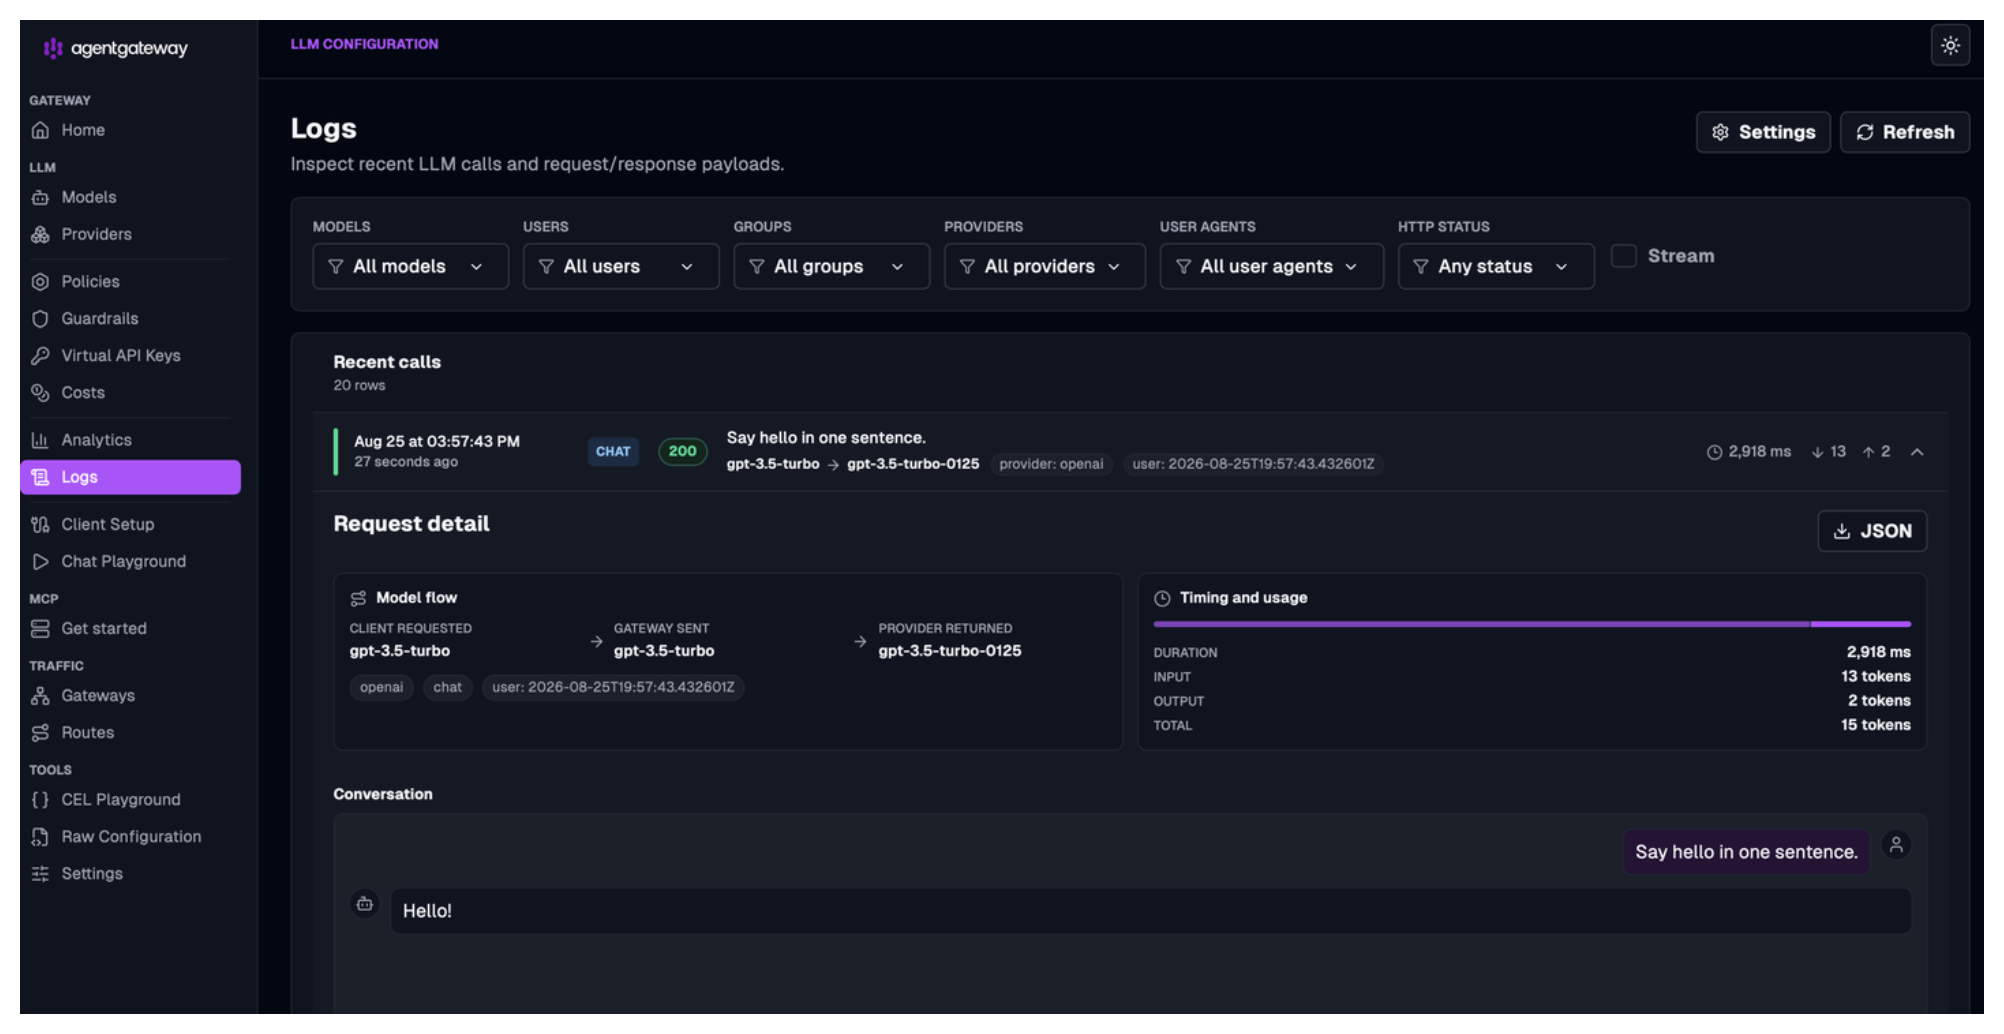
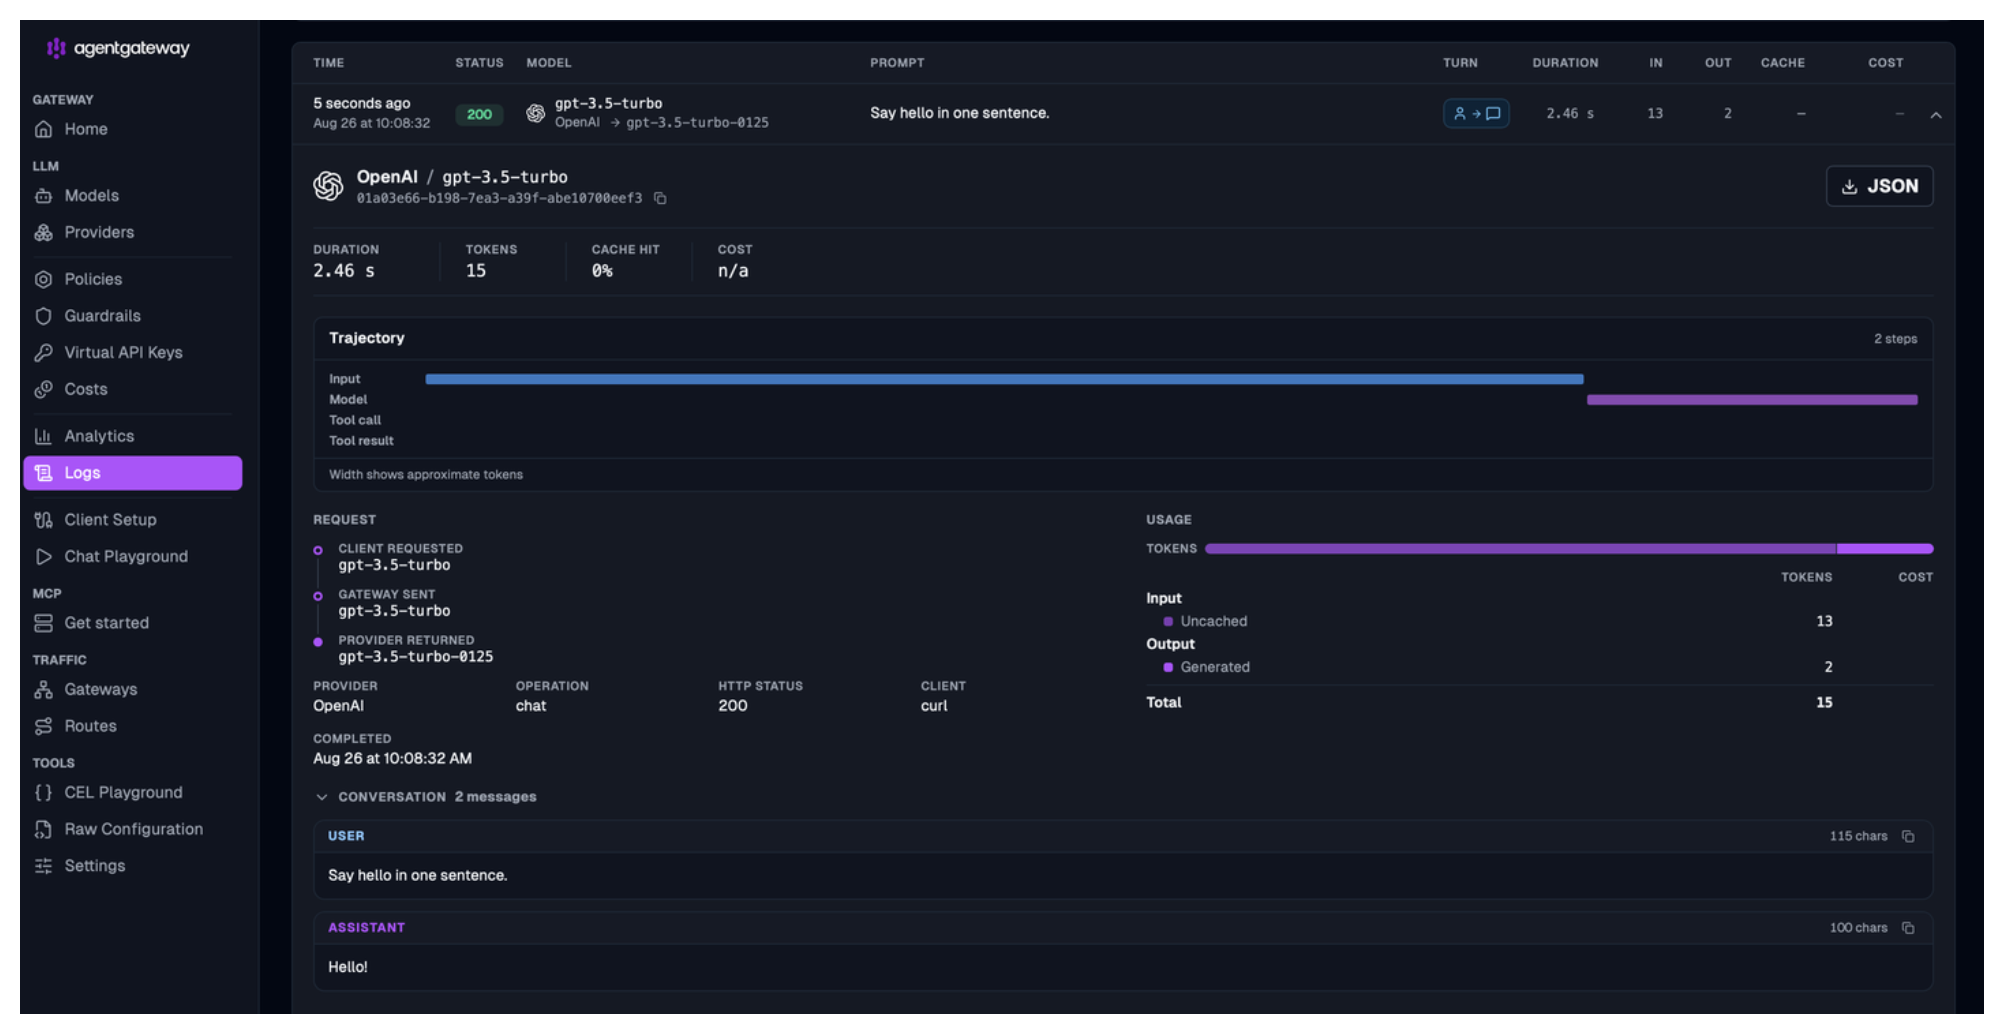
Access log UI

diff --git a/content/docs/standalone/main/observability/access-logs/view.md b/content/docs/standalone/main/observability/access-logs/view.md
@@ -31,17 +31,15 @@ config:
 
 ## View access logs in the UI
 
-The agentgateway UI at [http://localhost:15000/ui](http://localhost:15000/ui) includes a **Logs** page that provides a richer view of access log data than what you see in the stdout output. For each request, the Logs page shows the following information: 
-
-- **Trajectory**: The request path from the client through agentgateway to the upstream provider, including any policy callouts if policies are configured.
-- **Conversation view**: For LLM traffic, the prompt and response are rendered as a readable conversation.
-- **Usage**: Token counts, cost, latency, and other per-request metrics
+The agentgateway UI includes a **Logs** page that you can use to review the access logs that were captured by your proxy. 
 
 To view access logs in the UI: 
 
 1. Open the [agentgateway admin UI](http://localhost:15000/ui). 
-2. Go to **Logs** and review the access logs that agentgateway captured for previous requests. Use the filter options to limit the number of access logs that are shown to you. For example, you can filter logs by model, providers, or users. Note that in order to filter logs by user, you must configure authentication in agentgateway. 
-3. To access richer access logs for LLM and MCP-related requests, such as to see the full conversation with your LLM, model flow, and the tokens that were used, open the logs settings and toggle **Include prompts and completions in logs**. Then, repeat the request to your backend to view the additional data. The following example shows a conversation with an LLM provider. 
+2. Go to **Logs** and review the access logs that agentgateway captured for your previous requests. Use the filter options to limit the number of access logs that are shown to you. For example, you can filter logs by model, providers, or users. Note that in order to filter logs by user, you must configure authentication in agentgateway. 
+3. Optional: Enable richer access logging for LLM and MCP-specific requests by going to the log **Settings** and toggling **Include prompts and completions in logs**. For every request that you sent through agentgateway, the following additional information is captured: 
+   - **Trajectory**: Review the steps that your request took, including tool calls, and how many tokens were spent in each step. Each step is represented as a line. The longer the line is, the more tokens were used in that step.
+   - **Conversation view**: See the details of your conversation with the LLM provider, such as the prompt that you sent and the reply that you got from the LLM. 
   
    {{< reuse-image src="img/main/agw-access-log.png" srcDark="img/main/agw-access-log-dark.png" >}}
 
